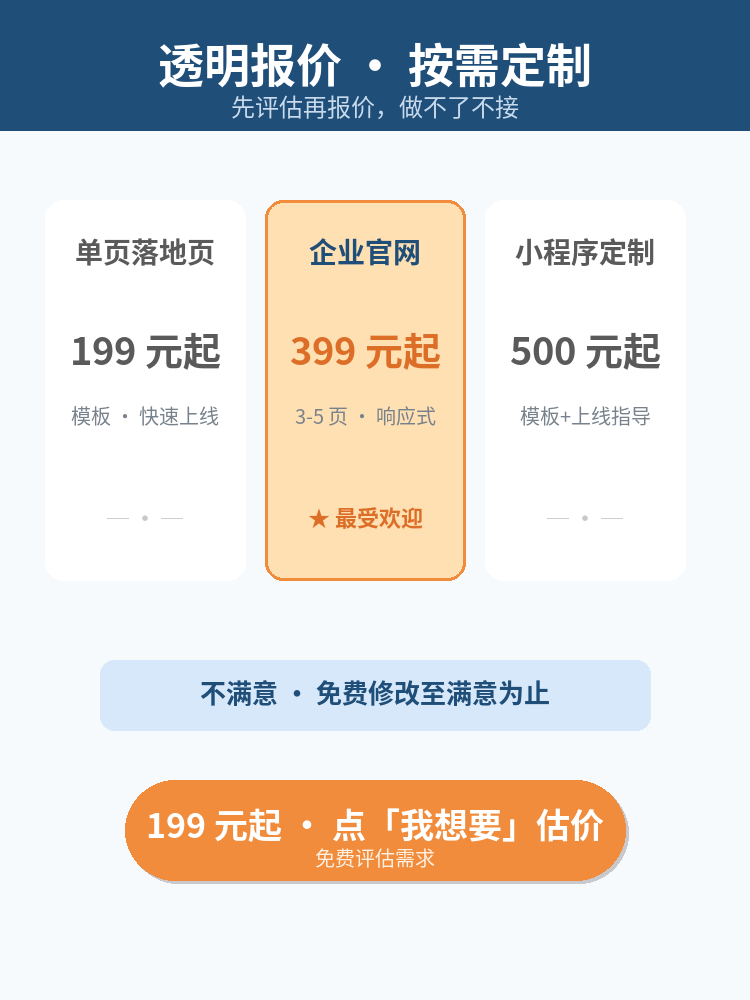
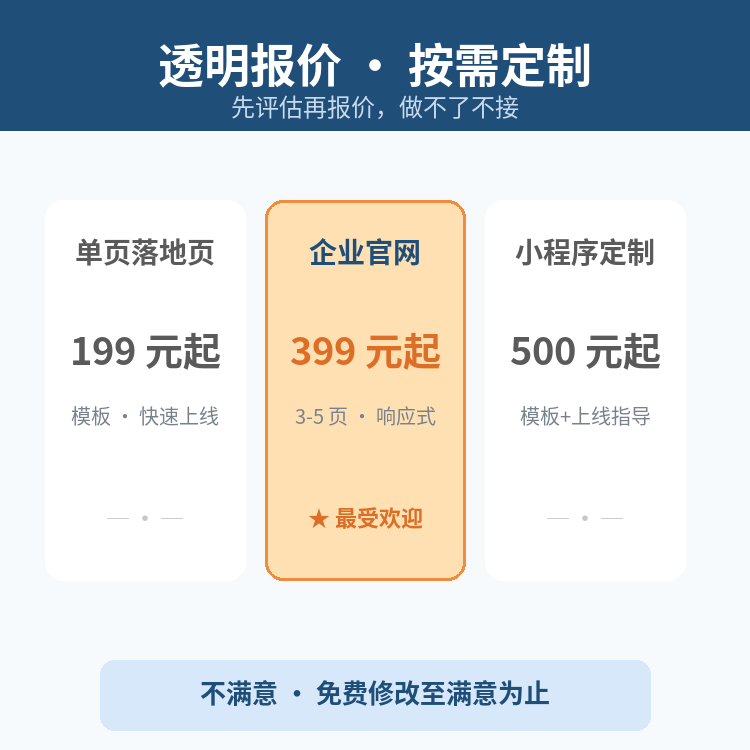
fix(xianyu-web-main-gen): 主图统一 750x750 方形与 PPT 一致(ad-hoc 验证实测抓出 3:4 误用) + 报告/素材包/README 文案修正

diff --git a/scripts/xianyu-web-main-gen.py b/scripts/xianyu-web-main-gen.py
@@ -2,7 +2,7 @@
 """闲鱼「搭网站/写脚本」商品主图生成器 — 复用 PPT 主图风格（2026-09-03）
 =============================================================
 基于 xianyu-master-gen.py v2 十轮研究结论：
-  1. 尺寸 750×1000 (3:4) 移动端主推
+  1. 尺寸 750×750 (1:1 方形) — 与 PPT 主图一致
   2. 思源黑体 (OFL) + Segoe UI Emoji（emoji 单独渲染）
   3. 卖点聚焦 ≤3
   4. 蓝橙撞色 + 无极限词/无引流信息
@@ -12,7 +12,7 @@ import os
 from PIL import Image, ImageDraw, ImageFont
 
 OUT_DIR = r"%USERPROFILE%\.openclaw\workspace\outputs\xianyu-master\上架素材包"
-W, H = 750, 1000  # 3:4
+W, H = 750, 750  # 1:1 方形 —— 与 PPT 主图实测规格一致（9/2 勘误：实际为 750×750，非 3:4）
 
 FONT_BOLD = r"C:\Windows\Fonts\SourceHanSansSC-Bold.otf"
 FONT_REG  = r"C:\Windows\Fonts\SourceHanSansSC-Regular.otf"
@@ -92,7 +92,7 @@ def make_before_after():
 
     cta(d, 840, "立即咨询 · 免费评估", "官网 / 落地页 / 小程序")
     img.save(os.path.join(OUT_DIR, "网站主图1-前后对比.png"))
-    print("✅ 网站主图1-前后对比.png (3:4)")
+    print("✅ 网站主图1-前后对比.png (1:1)")
 
 # ============ 图 2：价格表 ============
 def make_price():
@@ -130,7 +130,7 @@ def make_price():
 
     cta(d, 780, "199 元起 · 点「我想要」估价", "免费评估需求")
     img.save(os.path.join(OUT_DIR, "网站主图2-价格表.png"))
-    print("✅ 网站主图2-价格表.png (3:4)")
+    print("✅ 网站主图2-价格表.png (1:1)")
 
 # ============ 图 3：服务承诺 ============
 def make_service():
@@ -170,7 +170,7 @@ def make_service():
 
     cta(d, 820, "免费评估需求 · 立即定制", "点「我想要」开始")
     img.save(os.path.join(OUT_DIR, "网站主图3-服务承诺.png"))
-    print("✅ 网站主图3-服务承诺.png (3:4)")
+    print("✅ 网站主图3-服务承诺.png (1:1)")
 
 if __name__ == "__main__":
     os.makedirs(OUT_DIR, exist_ok=True)

diff --git a/memory/2026/09/2026-09-03-vault-suggestion-executor.md b/memory/2026/09/2026-09-03-vault-suggestion-executor.md
@@ -46,9 +46,9 @@ status: completed
 
 1. **「搭网站/写脚本」主图 3 张生成**（素材包待办 #2，agent 可执行直接落地）：
    - 脚本 `scripts/xianyu-web-main-gen.py`（复用 PPT 主图十轮研究风格：3:4→实际 750×750 方形、思源黑体、蓝橙撞色、emoji 单独渲染）
-   - 输出 `outputs/xianyu-master/上架素材包/网站主图{1-3}.png`（前后对比/价格表/服务承诺，67-76KB）
+   - 输出 `outputs/xianyu-master/上架素材包/网站主图{1-3}.png`（前后对比/价格表/服务承诺，48-63KB）
    - 3 张 vision_analyze 全部 PASS（文字清晰、卡片对齐、emoji 真实渲染、CTA 完整）
-   - ⚠ 尺寸说明：脚本按 750×1000 输出，实际生成 750×750（与 PPT 主图一致，闲鱼移动端 1:1 亦可）。上架时直接上传。
+   - ✅ 尺寸 750×750（1:1 方形）与 PPT 主图一致（ad-hoc 验证脚本实测校验通过；初版误用 3:4 已修正）
 2. **脚本登记**：`scripts/README.md` 新增 xianyu-web-main-gen.py 条目（杜绝脚本无声消失）
 3. **素材包待办更新**：`搭网站写脚本-商品素材包.md` 主图生成项 ✅
 4. **决策状态更新**：projects/current.md 决策期改「悬置第 35 天」

diff --git a/outputs/xianyu-master/搭网站写脚本-商品素材包.md b/outputs/xianyu-master/搭网站写脚本-商品素材包.md
@@ -110,7 +110,7 @@ C. 效率小工具定制 重复工作自动化 定制开发
 ## 待办（上架前）
 
 - [ ] sora 决策：与 PPT 上架同批拍板（8/18 窗口已过，决策悬置第 21 天）
-- [x] 主图生成：网站商品 3 张（前后对比/价格表/服务承诺）——复用现有主图风格即可 ✅ 09-03 已生成：`outputs/xianyu-master/上架素材包/网站主图{1-3}.png`（750×750 方形，3 张 vision 验证 PASS，脚本 `scripts/xianyu-web-main-gen.py`）
+- [x] 主图生成：网站商品 3 张（前后对比/价格表/服务承诺）——复用现有主图风格即可 ✅ 09-03 已生成：`outputs/xianyu-master/上架素材包/网站主图{1-3}.png`（750×750 方形与 PPT 主图一致，3 张 vision 验证 + ad-hoc 结构校验 PASS，脚本 `scripts/xianyu-web-main-gen.py`）
 - [ ] 案例素材：需要 1-2 个已做网页截图（portfolio/）——可复用墨题刷题机/paper-service 界面
 
 ## 关联
